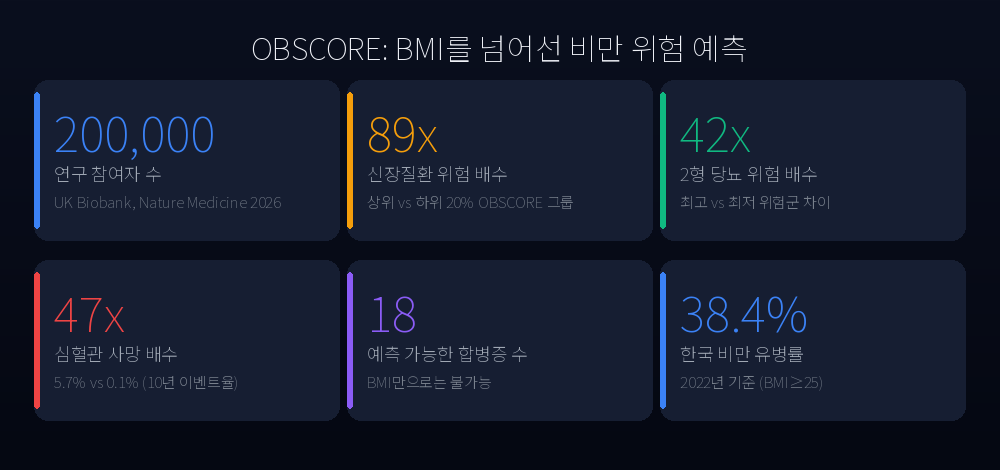
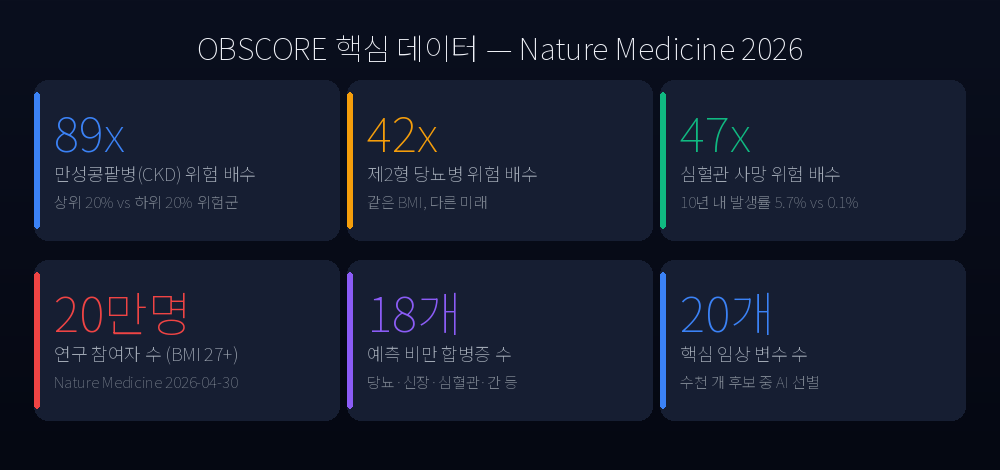
Post: Your BMI Is Lying to You — New AI Tool Predicts 18 Disease Risks (OBSCORE, Nature Medicine 2026)
https://claude.ai/code/session_0176UxxsVxC2HPmMrYpLmrUT

diff --git a/_posts/2026-05-05-obscore-what-your-blood-panel-reveals.md b/_posts/2026-05-05-obscore-what-your-blood-panel-reveals.md
@@ -1,0 +1,120 @@
+---
+title: "Your BMI Is Lying to You — A New AI Tool Predicts 18 Disease Risks BMI Can't"
+date: "2026-05-05"
+description: "A 200,000-person Nature Medicine study reveals BMI fails to predict which obesity complications you'll develop. The OBSCORE tool uses 20 blood markers to predict 10-year risk across 18 conditions — with 89-fold differences between risk groups."
+tags: ["obesity complications", "OBSCORE", "BMI limitations", "diabetes prevention", "chronic kidney disease", "precision medicine", "health screening"]
+image: "https://raw.githubusercontent.com/jeonghun-project/global-tech-blog/main/assets/images/header-obscore-blood-panel.png"
+author: "Health Desk"
+---
+
+## TL;DR
+
+- **The Study**: A Nature Medicine study of ~200,000 adults (BMI 27+) shows BMI cannot predict which obesity complications a person will develop. Published April 30, 2026.
+- **The Finding**: Individuals at the top 20% of predicted risk are 89 times more likely to develop chronic kidney disease than those in the bottom 20% — despite potentially having the same BMI.
+- **The Action**: The 20 variables that power the OBSCORE model are already measured in routine blood panels. Here's what to look for in your next checkup results.
+
+---
+
+## Two People, Same Weight, Completely Different Futures
+
+Two people walk into a clinic. Both are 5'10", both weigh 185 pounds, both have a BMI of 26.5. Their doctor recommends the same advice: lose some weight, get more exercise.
+
+Ten years later, one develops chronic kidney disease. The other remains healthy.
+
+What made the difference? Not their weight.
+
+On April 30, 2026, researchers from Queen Mary University of London published a landmark study in *Nature Medicine* that quantified exactly how misleading BMI can be as a clinical tool. Using data from approximately 200,000 adults with a BMI over 27, they developed and validated OBSCORE — an AI-powered risk stratification model that predicts the 10-year risk of 18 distinct obesity-related complications. The magnitude of the differences it reveals is striking.
+
+![OBSCORE key statistics](https://raw.githubusercontent.com/jeonghun-project/global-tech-blog/main/assets/images/stats_obscore_2026.png)
+
+---
+
+## Why BMI Has Always Been a Blunt Instrument
+
+BMI — your weight in kilograms divided by your height in meters squared — was designed in the 1830s as a population-level statistical measure, not an individual clinical tool. Yet for decades, it has served as the primary screening criterion for obesity-related health risk.
+
+The problem is structural. BMI doesn't distinguish between muscle and fat. It says nothing about where fat is distributed in the body — visceral (organ-surrounding) fat carries far greater metabolic risk than subcutaneous fat. It ignores blood sugar regulation, kidney function, liver enzymes, and lipid profiles. Two people with identical BMIs could have dramatically different metabolic health.
+
+This isn't a minor academic quibble. Multiple large-cohort reviews have found that using BMI alone misclassifies a significant proportion of individuals as metabolically healthy when they are not — and vice versa, flagging metabolically healthy individuals as high-risk. The limitations are especially pronounced in Asian populations, where cardiovascular and diabetes risk rises at BMI thresholds well below the standard Western cutoff of 30.
+
+The OBSCORE study makes the stakes concrete: the current approach of treating everyone with a high BMI as similarly at risk leads to inefficient use of clinical resources and missed opportunities for early intervention in people who genuinely need it.
+
+---
+
+## What OBSCORE Actually Does
+
+The research team applied machine learning to a dataset of approximately 200,000 individuals with overweight or obesity, testing thousands of clinical, molecular, and lifestyle variables as potential predictors of future disease. What emerged were the 20 most informative features — all measurable from standard clinical tests and routine health records.
+
+The core variables include:
+
+- **Glycemic markers**: HbA1c (glycated hemoglobin)
+- **Lipid panel**: Total cholesterol, HDL cholesterol
+- **Kidney function**: Serum creatinine
+- **Liver function**: Alanine aminotransferase (ALT)
+- **Metabolic markers**: Uric acid
+- **Physical measurements**: Waist-to-height ratio, blood pressure
+- **Lifestyle factors**: Smoking status, demographic data
+
+From these inputs, OBSCORE generates individual risk predictions for 18 conditions: type 2 diabetes, chronic kidney disease, cardiovascular disease, fatty liver disease, sleep apnea, osteoarthritis, and more. Critically, the model was externally validated in both European-ancestry and non-European-ancestry cohorts, suggesting it generalizes across diverse populations.
+
+![BMI alone vs OBSCORE approach](https://raw.githubusercontent.com/jeonghun-project/global-tech-blog/main/assets/images/comparison_bmi_vs_obscore.png)
+
+---
+
+## The Numbers That Should Rethink How We Screen for Obesity
+
+The effect sizes in this study are not marginal. They suggest we may be systematically misallocating clinical attention.
+
+**Chronic kidney disease (CKD)**: Individuals in the top 20% of OBSCORE-predicted risk were **89 times more likely** to develop CKD over 10 years than those in the bottom 20%. These are people who might share the same BMI bracket.
+
+**Type 2 diabetes**: The risk ratio was **42-fold**. The difference between the highest- and lowest-risk quintiles dwarfs anything a BMI-based stratification could reveal.
+
+**Cardiovascular mortality**: 10-year event rates were 5.7% in the highest-risk group versus 0.1% in the lowest — a **47-fold spread**. In practical terms: in a room of 100 high-BMI people, current screening would treat them similarly. OBSCORE would identify that roughly 6 of them face a cardiovascular mortality risk 57 times higher than others in the same room.
+
+These are not incremental improvements over BMI. They represent a fundamentally different level of clinical information.
+
+![OBSCORE mechanism](https://raw.githubusercontent.com/jeonghun-project/global-tech-blog/main/assets/images/flow_obscore_mechanism.png)
+
+---
+
+## What This Means For You
+
+OBSCORE is not yet available as a clinical tool your doctor can order. But the variables it uses are already measured in standard health panels worldwide. Here's how to get more from the bloodwork you're likely already having done.
+
+**1. Look at your HbA1c number.** An HbA1c of 5.7% or above places you in the pre-diabetes range. This matters even if your fasting glucose is normal and your doctor hasn't flagged it. Research consistently shows that pre-diabetes combined with low HDL cholesterol substantially amplifies 10-year kidney disease risk compared to either risk factor alone — a combination that OBSCORE is specifically designed to detect.
+
+**2. Check your creatinine and estimated GFR (eGFR).** An eGFR below 60 indicates stage 2 or worse CKD. Even a creatinine value at the upper end of the "normal" range warrants attention — trending upward over consecutive years is more informative than any single data point.
+
+**3. Know your HDL.** HDL below 40 mg/dL for men and 50 mg/dL for women is an independent cardiovascular risk factor that compounds with other metabolic abnormalities. Aerobic exercise is the most evidence-backed intervention for raising HDL, with established evidence showing average HDL increases of 3–5 mg/dL after 12 weeks of moderate-intensity training in multiple controlled trials.
+
+**4. Calculate your waist-to-height ratio.** Divide your waist circumference by your height (both in the same unit). A ratio above 0.5 indicates central adiposity and is a stronger predictor of metabolic disease than BMI. This is a 30-second calculation you can do at home.
+
+**5. Think in combinations, not individual values.** OBSCORE's core insight is that risk emerges from patterns across multiple markers, not from any single outlier. HbA1c at 5.6% + low HDL + elevated uric acid + elevated blood pressure, each individually within "normal," can combine to create a meaningfully elevated composite risk.
+
+---
+
+## Caveats Worth Knowing
+
+The OBSCORE study is rigorous, but it has real limitations that any careful reader should note.
+
+The model has not yet been validated in East Asian populations specifically — the primary cohorts were European and broadly Western. Given that Asians develop obesity-related complications at lower BMI thresholds (guidelines in countries like Korea and Japan define obesity at BMI 25 rather than 30), the specific risk thresholds may differ from those derived in this study.
+
+OBSCORE does not incorporate genetic data. Individuals with strong familial risk for conditions like familial hypercholesterolemia or BRCA-associated metabolic syndromes may have risks that the model underestimates.
+
+Finally, this is a population-level risk tool, not a diagnostic instrument. A high OBSCORE score is a signal to discuss with a physician — it is not a diagnosis of future disease, and its predictions carry confidence intervals that the published paper acknowledges are substantial in individual-level predictions.
+
+---
+
+## The Bigger Picture: Precision Obesity Medicine
+
+The OBSCORE study is one signal in a broader shift in how medicine approaches overweight and obesity. The field is moving away from the question "how much does this person weigh?" toward "which specific risks does this person carry, and which interventions will actually move the needle for them?"
+
+A companion paper in the same Nature Medicine issue used OBSCORE to model which individuals would benefit most from weight-loss interventions — finding that prioritizing treatment based on OBSCORE risk, rather than BMI alone, substantially improved the clinical yield of interventions.
+
+In the near future, wearable continuous glucose monitors, smartwatch-based heart rate variability data, and routine genomic screening may all feed into models like OBSCORE to create genuinely individualized risk profiles. For now, what we have is a tool that says: the variables your annual blood panel already measures tell a much richer story than your BMI ever could. The question is whether clinicians and patients will start reading that story.
+
+---
+
+*This content is for informational purposes only and is not a substitute for professional medical advice, diagnosis, or treatment. Always seek the advice of your physician or other qualified health provider with any questions you may have regarding a medical condition.*
+
+**Source**: Caleyachetty et al., "A data-driven risk stratification framework for clinical obesity," *Nature Medicine*, April 30, 2026. Study population: approximately 200,000 adults with BMI ≥27. Predicted 10-year risk for 18 obesity-related complications using 20 clinical variables.
